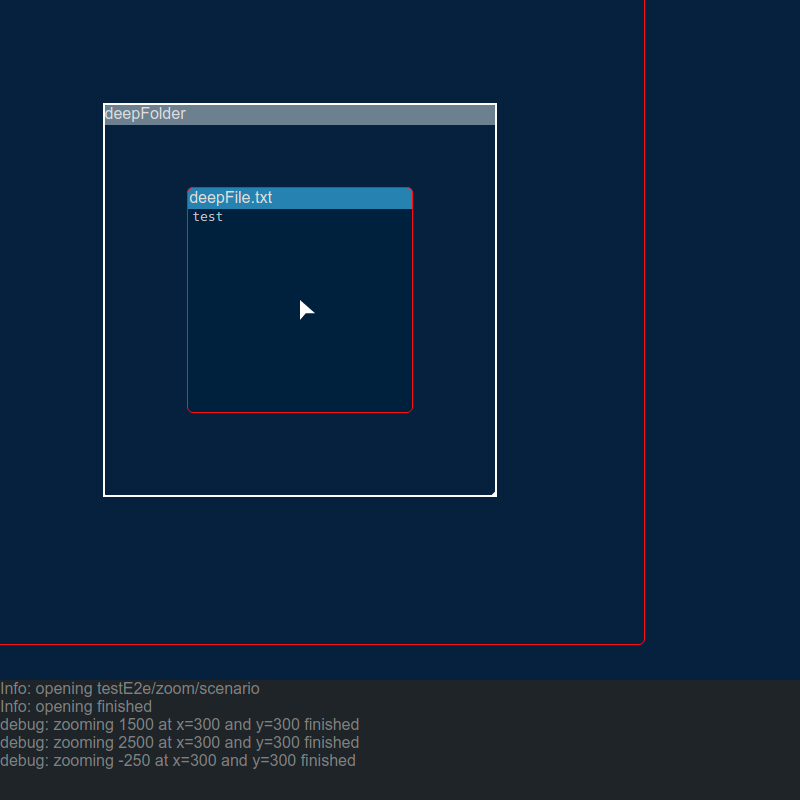
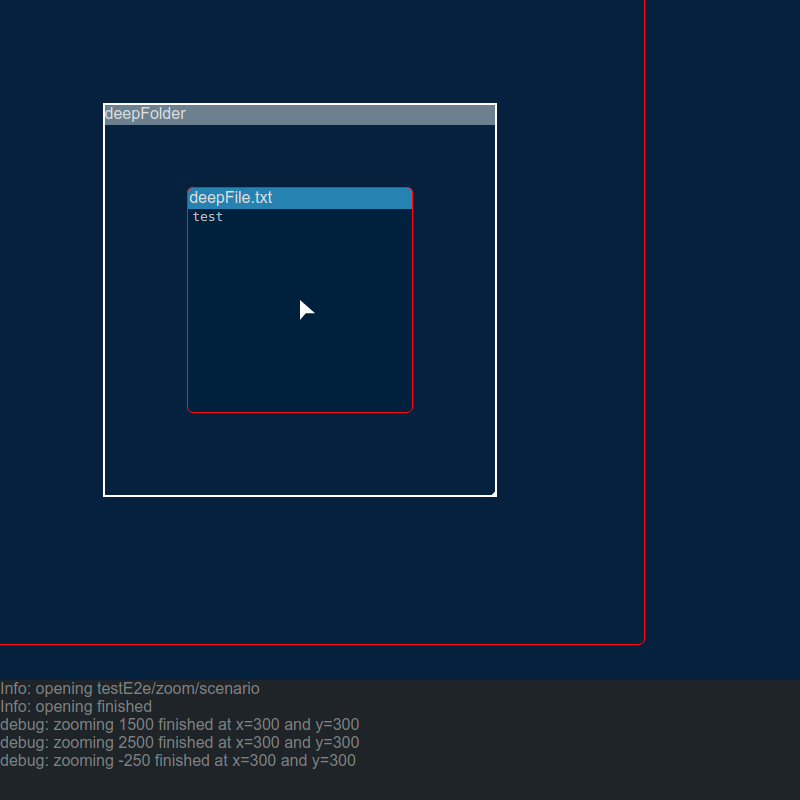
improve error messages of guiAdapter and update screenshots

Changed region(s): [[0.1875, 0.875, 0.4375, 0.9688]]

diff --git a/testE2e/guiAdapter.ts b/testE2e/guiAdapter.ts
@@ -42,7 +42,7 @@ export async function takeScreenshot(
 
 export async function zoom(delta: number): Promise<void> {
   await zoomWithoutWaitingUntilFinished(delta)
-  await waitUntilLastLogMatches((log:string) => log.includes(`zooming ${delta} finished`), 2000)
+  await waitUntilLastLogIncludes(`zooming ${delta} finished`, 2000)
 }
 
 export async function zoomWithoutWaitingInBetween(deltas: number[]): Promise<void> {
@@ -97,9 +97,11 @@ export async function getNextSourcePathOfBoxIterator(): Promise<string|undefined
   const noFurtherBoxesMarker: string = 'Info: no further boxes to iterate'
   const getFilePathIn = (log: string) => log.substring(nextBoxMarker.length)
 
-  const lastLog: string = await waitUntilLastLogMatches((log: string) => {
-    return (log.startsWith(nextBoxMarker) && getFilePathIn(log) !== boxIteratorLastFilePath) || log === noFurtherBoxesMarker
-  }, 500)
+  const lastLog: string = await waitUntilLastLogMatches(
+    (log: string) => (log.startsWith(nextBoxMarker) && getFilePathIn(log) !== boxIteratorLastFilePath) || log === noFurtherBoxesMarker,
+    500,
+    (lastLog: string) => `failed to get source path of box in last log, last log is "${lastLog}"`
+  )
 
   if (lastLog.startsWith(nextBoxMarker)) {
     boxIteratorLastFilePath = getFilePathIn(lastLog)
@@ -139,14 +141,26 @@ async function removeFocus(): Promise<void> {
 }
 
 async function waitUntilLastLogEndsWith(ending: string, timelimitInMs: number): Promise<string> {
-  try {
-    return await waitUntilLastLogMatches((log: string) => log.endsWith(ending), timelimitInMs) // await because otherwise catch would not work
-  } catch (e) {
-    throw new Error(`last log does not end with "${ending}" in time of ${timelimitInMs}ms, ${e.message}`)
-  }
+  return waitUntilLastLogMatches(
+    (log: string) => log.endsWith(ending),
+    timelimitInMs,
+    (lastLog: string) => `last log does not end with "${ending}" in time of ${timelimitInMs}ms, last log is "${lastLog}"`
+  )
 }
 
-async function waitUntilLastLogMatches(condition:(log: string) => boolean, timelimitInMs: number): Promise<string> {
+async function waitUntilLastLogIncludes(substring: string, timelimitInMs: number): Promise<string> {
+  return waitUntilLastLogMatches(
+    (log: string) => log.includes(substring),
+    timelimitInMs,
+    (lastLog: string) => `last log does not include "${substring}" in time of ${timelimitInMs}ms, last log is "${lastLog}"`
+  )
+}
+
+async function waitUntilLastLogMatches(
+  condition: (log: string) => boolean,
+  timelimitInMs: number,
+  generateErrorMessage: (lastLog: string) => string
+): Promise<string> {
   const timecap: number = Date.now() + timelimitInMs
   while(true) {
     const lastLog: string = await getLastLog()
@@ -154,7 +168,7 @@ async function waitUntilLastLogMatches(condition:(log: string) => boolean, timel
       return lastLog
     }
     if (Date.now() > timecap) {
-      throw new Error(`last log does not match condition in time of ${timelimitInMs}ms, last log is "${lastLog}"`)
+      throw new Error(generateErrorMessage(lastLog))
     }
     await util.wait(50)
   }
